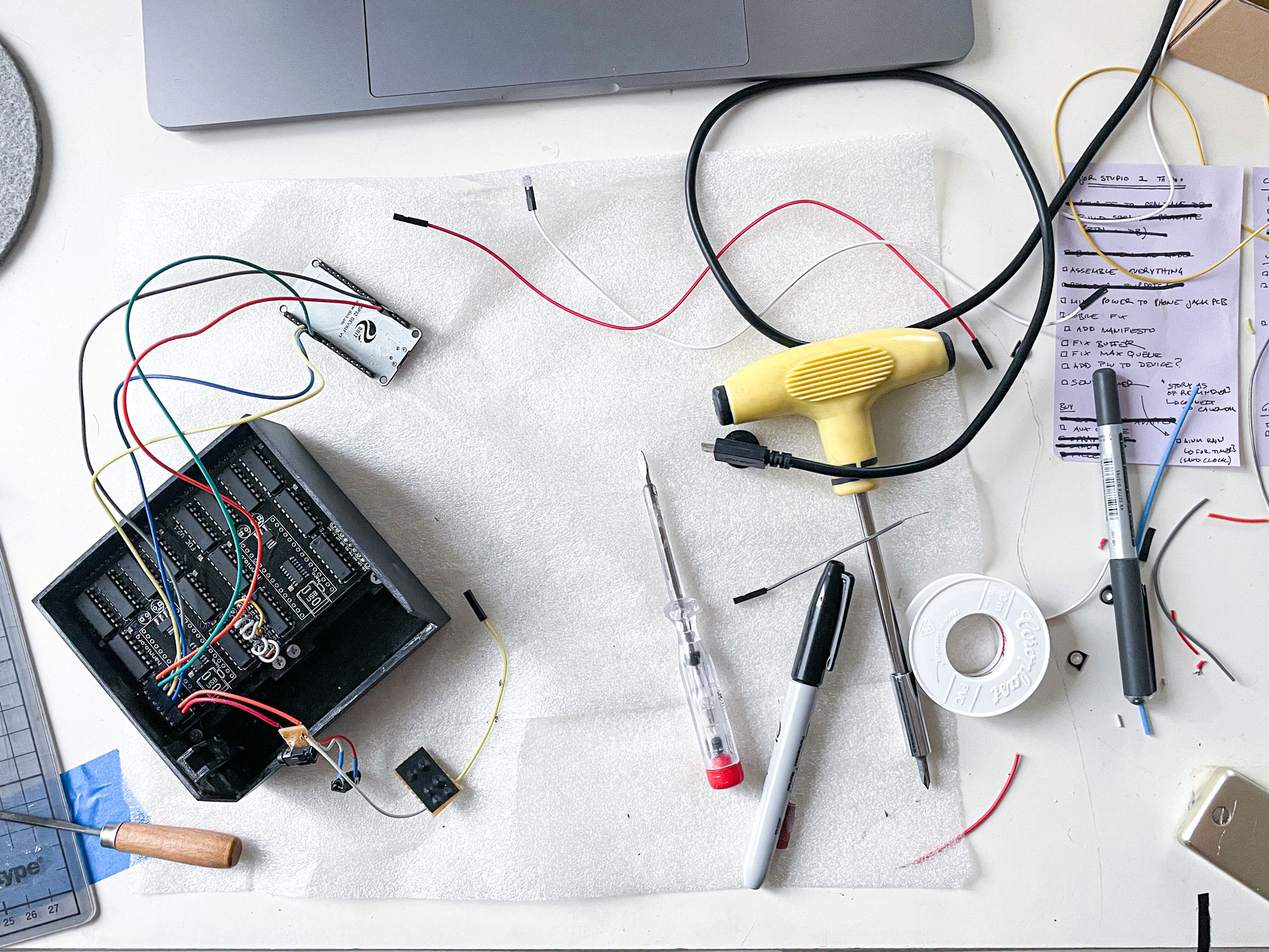
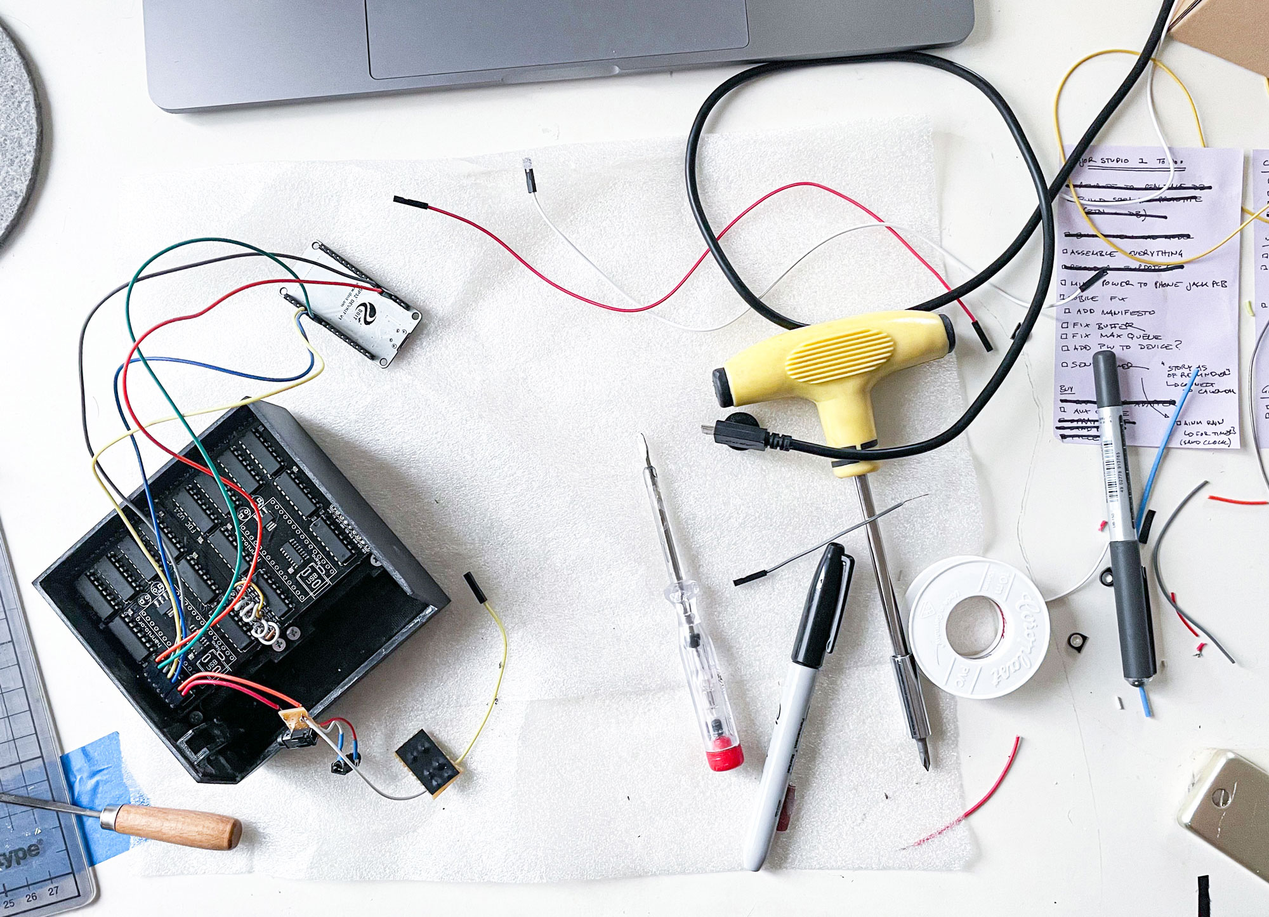
Add assembly photo

Changed region(s): [[0.0, 0.0, 1.0, 1.0], [0.0, 0.0, 0.062, 0.3114]]

diff --git a/_posts/2020-12-09-Building-Pt-II 2.md b/_posts/2020-12-09-Building-Pt-II 2.md
@@ -13,6 +13,6 @@ I had the only issue due to the slightly tighter "window" resulting from the fil
 
 {% include lazyload.html image_src="AssemblyDesk.jpg" image_alt="Assembly at the desk" %}
 
-<!-- Add image from internal setup. -->
+{% include lazyload.html image_src="openDevice.jpg" image_alt="Device Open Assembled" %}
 
 Now, as the device is put together, I can refine the website's interaction and finalize the messages themselves. 
